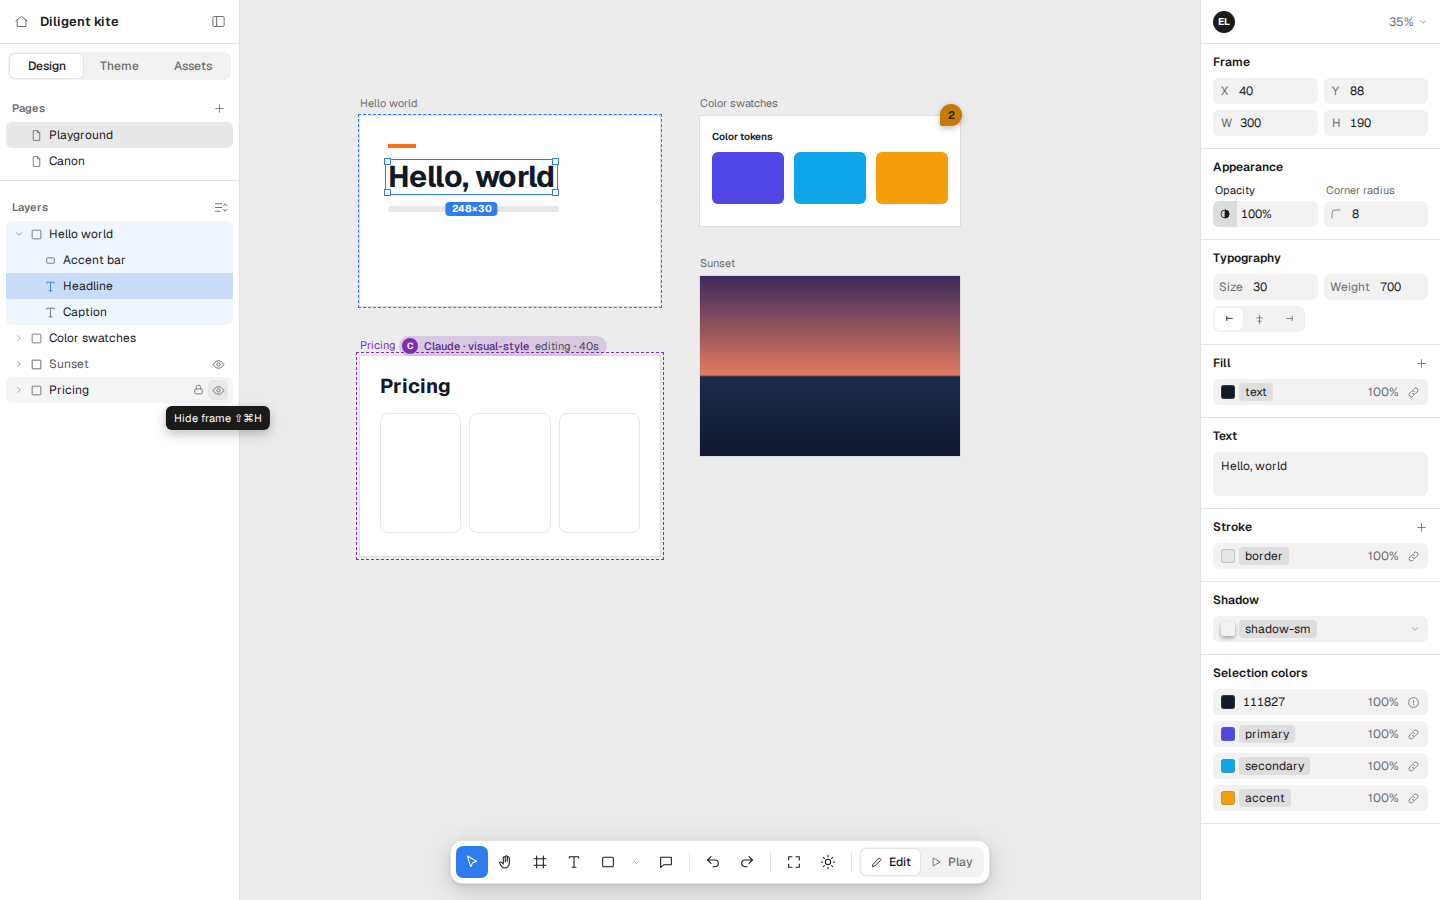
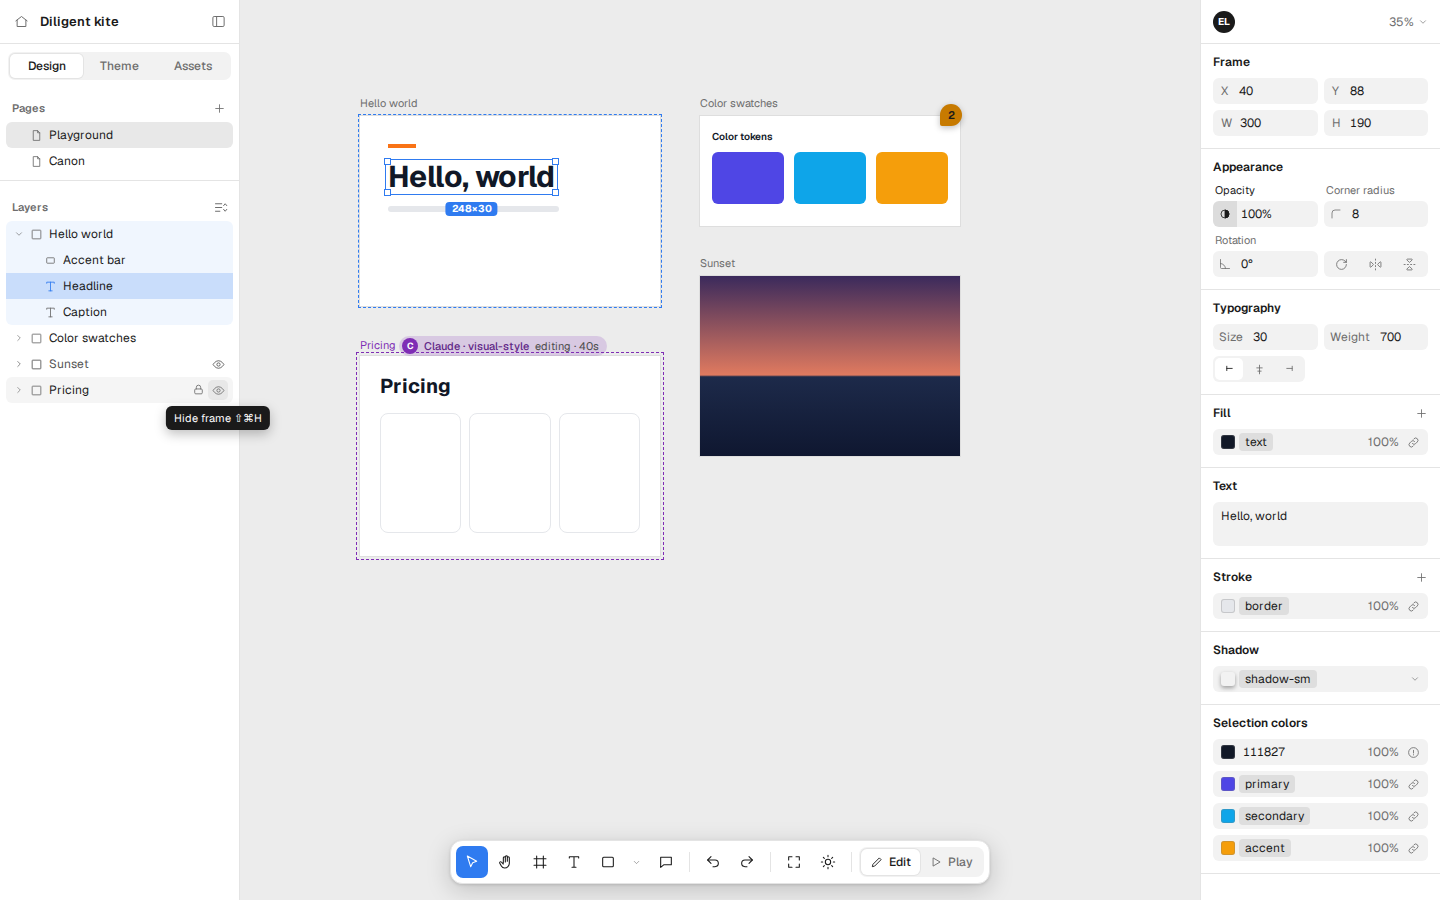
docs(design): draw the rotation row in the text inspector reference

diff --git a/canon/design/inspector/text.html b/canon/design/inspector/text.html
@@ -623,6 +623,24 @@
         background: var(--panel);
         color: var(--text);
       }
+      .cap.next {
+        margin-top: 6px;
+      }
+      .turns {
+        display: grid;
+        grid-template-columns: repeat(3, 1fr);
+        gap: 2px;
+        padding: 2px;
+        background: var(--raised);
+        border-radius: 6px;
+      }
+      .turns button {
+        display: grid;
+        place-items: center;
+        height: 22px;
+        border-radius: 5px;
+        color: var(--muted);
+      }
       .crow {
         display: flex;
         align-items: center;
@@ -1693,6 +1711,84 @@
                     <path d="M4 20V10a6 6 0 0 1 6-6h10" /></svg></span
                 ><span class="v g4">8</span></label
               >
+            </div>
+          </div>
+          <span class="cap next">Rotation</span>
+          <div class="grid2">
+            <label class="fld z"
+              ><span class="k"
+                ><svg
+                  class="ic"
+                  width="12"
+                  height="12"
+                  viewBox="0 0 24 24"
+                  fill="none"
+                  stroke="currentColor"
+                  stroke-width="1.6"
+                  stroke-linecap="round"
+                  stroke-linejoin="round"
+                >
+                  <path d="M3 3v16a2 2 0 0 0 2 2h16" />
+                  <path d="M3 11a10 10 0 0 1 10 10" /></svg></span
+              ><span class="v g4">0°</span></label
+            >
+            <div class="turns">
+              <button title="Rotate 90°">
+                <svg
+                  class="ic"
+                  width="13"
+                  height="13"
+                  viewBox="0 0 24 24"
+                  fill="none"
+                  stroke="currentColor"
+                  stroke-width="1.6"
+                  stroke-linecap="round"
+                  stroke-linejoin="round"
+                >
+                  <path d="M21 12a9 9 0 1 1-9-9c2.52 0 4.93 1 6.74 2.74L21 8" />
+                  <path d="M21 3v5h-5" />
+                </svg></button
+              ><button title="Flip horizontal">
+                <svg
+                  class="ic"
+                  width="13"
+                  height="13"
+                  viewBox="0 0 24 24"
+                  fill="none"
+                  stroke="currentColor"
+                  stroke-width="1.6"
+                  stroke-linecap="round"
+                  stroke-linejoin="round"
+                >
+                  <path d="M12 14v2M12 20v2M12 2v2M12 8v2" />
+                  <path
+                    d="M20.288 16.703A1 1 0 0022 16V8a1 1 0 00-1.712-.703l-3.99 3.991a1 1 0 00-.001 1.424z"
+                  />
+                  <path
+                    d="M3.712 16.703A1 1 0 012 16V8a1 1 0 011.712-.703l3.99 3.991a1 1 0 01.001 1.424z"
+                  />
+                </svg></button
+              ><button title="Flip vertical">
+                <svg
+                  class="ic"
+                  width="13"
+                  height="13"
+                  viewBox="0 0 24 24"
+                  fill="none"
+                  stroke="currentColor"
+                  stroke-width="1.6"
+                  stroke-linecap="round"
+                  stroke-linejoin="round"
+                >
+                  <path d="M10 12H8M16 12h-2M22 12h-2M4 12H2" />
+                  <path
+                    d="M7.298 20.288A1 1 0 008 22h8a1 1 0 00.703-1.712l-3.991-3.99a1 1 0 00-1.424-.001z"
+                  />
+                  <path
+                    d="M7.298 3.712A1 1 0 018 2h8a1 1 0 01.703 1.712l-3.991 3.99a1 1 0 01-1.424.001z"
+                  />
+                </svg>
+              </button>
             </div>
           </div>
         </div>
